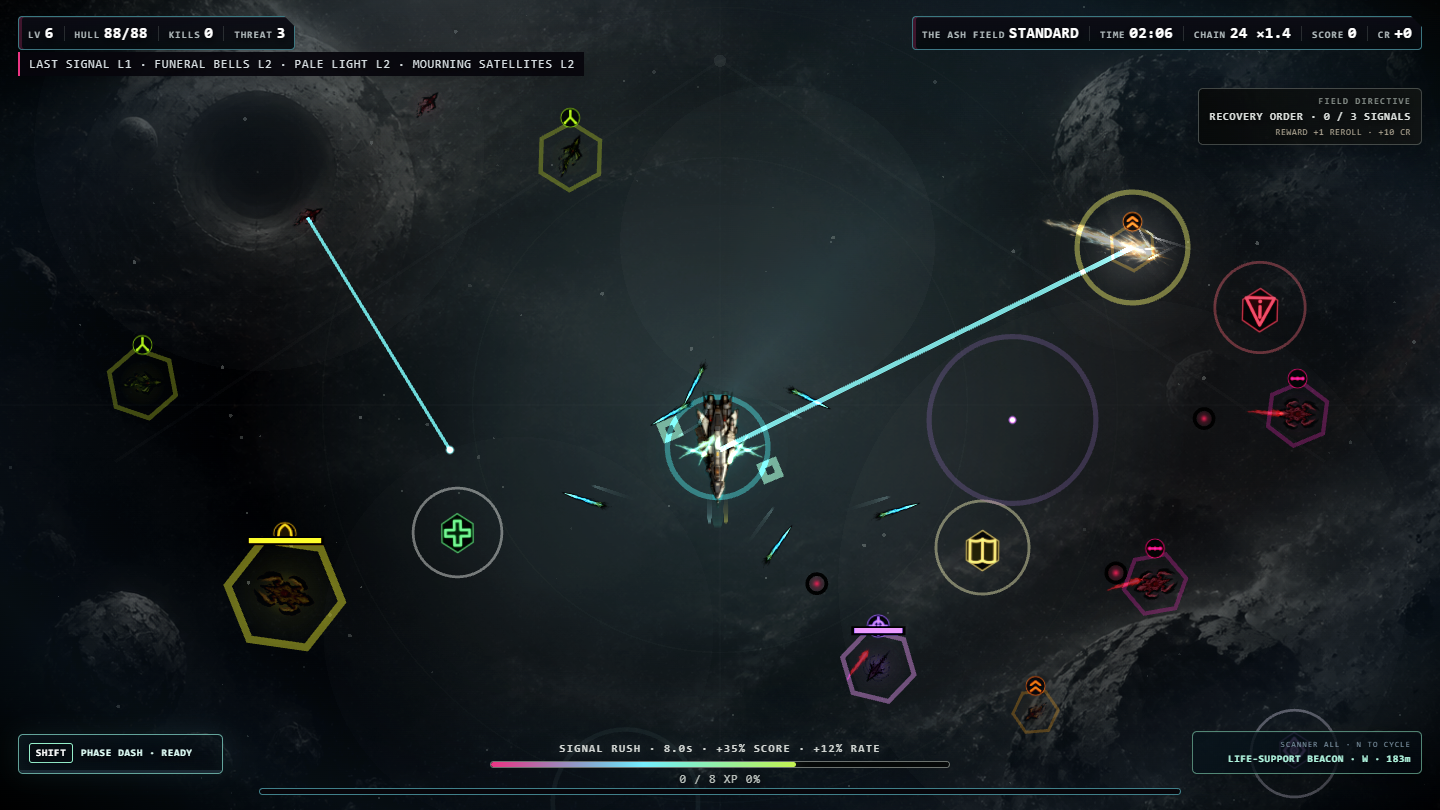
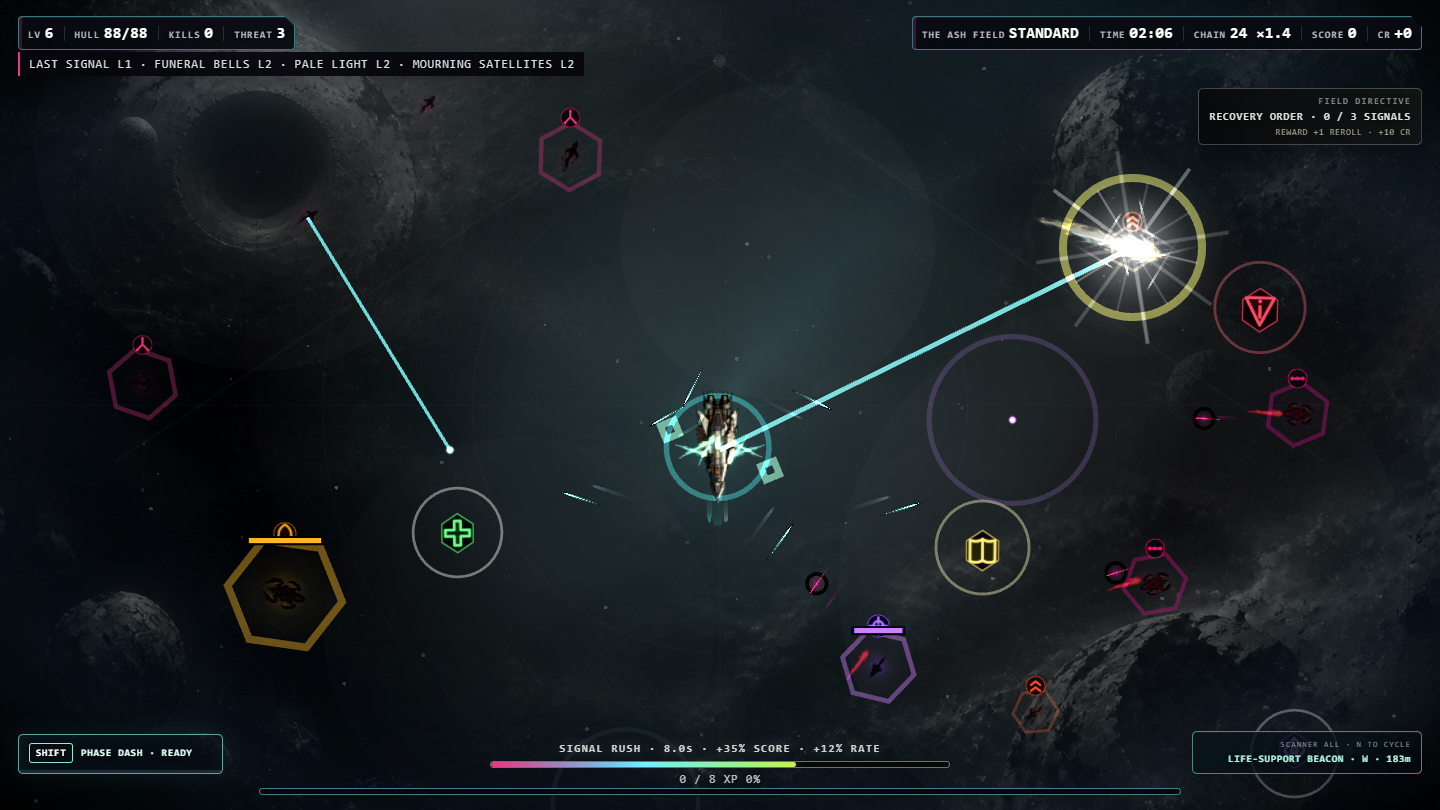
feat: align combat palette and explosive feedback

diff --git a/game.js b/game.js
@@ -751,7 +751,7 @@ function startRun(){
 }
 $('startBtn').onclick=startRun;
 function gainXp(n){state.xp+=xpGain(n)*(state.sector?.xp||1);while(state.xp>=state.xpNeed&&!state.choosing){state.xp-=state.xpNeed;state.level++;state.xpNeed=Math.floor(state.xpNeed*1.16+4);save.stats.highestLevel=Math.max(save.stats.highestLevel,state.level);if((state.level===10||state.level===20)&&state.doctrinePicks<2)openDoctrine(true);else openLevel();break}}
-function enemyBase(type){return {scout:{hp:24,speed:52,r:9,damage:13,xp:1,color:'#a99f9c'},charger:{hp:42,speed:89,r:8,damage:17,xp:2,color:'#b7aaa1'},tank:{hp:118,speed:31,r:15,damage:26,xp:3,color:'#8f8982'},gunner:{hp:58,speed:39,r:11,damage:14,xp:3,color:'#9f939d'},splitter:{hp:66,speed:46,r:12,damage:18,xp:3,color:'#aaa1a6'},sniper:{hp:48,speed:30,r:10,damage:12,xp:4,color:'#a2aaad'}}[type]}
+function enemyBase(type){return {scout:{hp:24,speed:52,r:9,damage:13,xp:1,color:'#ff4d86'},charger:{hp:42,speed:89,r:8,damage:17,xp:2,color:'#ff684c'},tank:{hp:118,speed:31,r:15,damage:26,xp:3,color:'#d79d49'},gunner:{hp:58,speed:39,r:11,damage:14,xp:3,color:'#ff2d82'},splitter:{hp:66,speed:46,r:12,damage:18,xp:3,color:'#d64b79'},sniper:{hp:48,speed:30,r:10,damage:12,xp:4,color:'#a879ff'}}[type]}
 function selectEnemyType(time,roll){if(time>210&&roll<.12)return'sniper';if(time>150&&roll<.26)return'splitter';if(time>100&&roll<.43)return'gunner';if(time>55&&roll<.65)return'charger';const tankCeiling=time>55?.79:.14;if(time>25&&roll<tankCeiling)return'tank';return'scout'}
 function spawnEnemy(forceType=null,elite=false,at=null){
   const pos=at||edgePos(),t=state.time,type=forceType||selectEnemyType(t,Math.random());
@@ -772,21 +772,21 @@ function spawnWave(dt){state.spawnT-=dt;const base=Math.max(.105,.62-state.time*
 // ---------- COMBAT ----------
 const WEAPON_FX_SIZE={pulse:24,missile:30,drone:18,rail:40,flak:25,ally:17,'hunter-wing':21,beam:38,arc:31,nova:48,mine:20,rift:34,hostile:25};
 function emitWeaponFx(x,y,angle,weaponId='pulse',color='#d7c58c',kind='friendly'){if(!state)return;const maxLife=weaponId==='rail'?.16:weaponId==='beam'?.15:kind==='hostile'?.13:.11;state.weaponFx.push({x,y,angle,weaponId,color,kind,size:WEAPON_FX_SIZE[weaponId]||24,life:maxLife,maxLife});if(state.weaponFx.length>120)state.weaponFx.splice(0,state.weaponFx.length-120);if(kind==='friendly'&&dist2({x,y},state.p)<32*32){state.p.weaponKick=Math.max(state.p.weaponKick,weaponId==='rail'?.12:weaponId==='beam'?.10:.07);state.p.weaponAngle=angle}}
-function emitImpactFx(x,y,vx,vy,weaponId='pulse',color='#d7c58c',finalHit=false,blast=0){if(!state)return;const angle=Math.atan2(vy??0,vx??1),heavy=weaponId==='rail'||weaponId==='missile'||weaponId==='flak',maxLife=finalHit?.34:heavy?.22:.16,size=(WEAPON_FX_SIZE[weaponId]||22)*(finalHit?1.45:heavy?1.12:.88);state.impactFx.push({x,y,angle,weaponId,color,finalHit,blast,life:maxLife,maxLife,size,seed:Math.random()});if(state.impactFx.length>180)state.impactFx.splice(0,state.impactFx.length-180)}
+function emitImpactFx(x,y,vx,vy,weaponId='pulse',color='#35efff',finalHit=false,blast=0){if(!state)return;const angle=Math.atan2(vy??0,vx??1),explosive=blast>0||['missile','flak','nova','mine'].includes(weaponId),heavy=explosive||weaponId==='rail',maxLife=finalHit?.38:explosive?.32:heavy?.24:.18,size=(WEAPON_FX_SIZE[weaponId]||22)*(finalHit?1.55:explosive?1.32:heavy?1.16:.92);state.impactFx.push({x,y,angle,weaponId,color,finalHit,blast,life:maxLife,maxLife,size,seed:Math.random()});if(state.impactFx.length>220)state.impactFx.splice(0,state.impactFx.length-220)}
 function fireProjectile(x,y,target,speed,damage,opts={}){if(!target||state.bullets.length>=MAX_FRIENDLY_BULLETS)return;const a=Math.atan2(target.y-y,target.x-x)+(opts.spread||0),weaponId=opts.weaponId||'unknown',color=opts.color||'#a9f4ff',life=opts.life||2;state.bullets.push({x,y,vx:Math.cos(a)*speed,vy:Math.sin(a)*speed,r:opts.r||3,life,maxLife:life,damage,pierce:opts.pierce||0,homing:opts.homing||0,blast:opts.blast||0,color,weaponId});emitWeaponFx(x+Math.cos(a)*10,y+Math.sin(a)*10,a,weaponId,color,weaponId==='ally'?'ally':'friendly')}
-function weaponPulse(w,dt){w.timer-=dt;if(w.timer>0)return;const target=nearest(state.p);if(!target)return;const l=w.level,e=w.evolved,shots=(l>=3?2:1)+(l>=6?1:0)+(e?2:0)+(state.synergies.pulseLoop?1:0)+state.p.extraProjectiles,cd=.43*(l>=4?.86:1)*(e?.70:1)*state.p.cooldownMul,damage=16*(1+(l-1)*.18)*(e?1.38:1)*state.p.damageMul*weaponPower('pulse',w),pierce=(l>=5?1:0)+(e?2:0);w.timer=cd;AUDIO.sfx('pulse');for(let i=0;i<shots;i++)fireProjectile(state.p.x,state.p.y,target,455*state.p.projectileMul,critDamage(damage),{spread:(i-(shots-1)/2)*.105,pierce,color:'#8de9ff',weaponId:'pulse'})}
-function weaponMissile(w,dt){w.timer-=dt;if(w.timer>0)return;const target=nearest(state.p);if(!target)return;const l=w.level,e=w.evolved,n=(l>=3?2:1)+(l>=6?1:0)+(e?2:0)+state.p.extraProjectiles,damage=30*(1+(l-1)*.21)*(e?1.34:1)*state.p.damageMul*weaponPower('missile',w);w.timer=.96*(l>=4?.84:1)*(e?.70:1)*state.p.cooldownMul;AUDIO.sfx('missile');for(let i=0;i<n;i++)fireProjectile(state.p.x,state.p.y,target,265*state.p.projectileMul,critDamage(damage),{spread:(i-(n-1)/2)*.17,homing:e?5.3:3.2,blast:(l>=5?26:10)*state.p.areaMul,r:4,color:'#ffd27a',weaponId:'missile'})}
+function weaponPulse(w,dt){w.timer-=dt;if(w.timer>0)return;const target=nearest(state.p);if(!target)return;const l=w.level,e=w.evolved,shots=(l>=3?2:1)+(l>=6?1:0)+(e?2:0)+(state.synergies.pulseLoop?1:0)+state.p.extraProjectiles,cd=.43*(l>=4?.86:1)*(e?.70:1)*state.p.cooldownMul,damage=16*(1+(l-1)*.18)*(e?1.38:1)*state.p.damageMul*weaponPower('pulse',w),pierce=(l>=5?1:0)+(e?2:0);w.timer=cd;AUDIO.sfx('pulse');for(let i=0;i<shots;i++)fireProjectile(state.p.x,state.p.y,target,455*state.p.projectileMul,critDamage(damage),{spread:(i-(shots-1)/2)*.105,pierce,color:'#35efff',weaponId:'pulse'})}
+function weaponMissile(w,dt){w.timer-=dt;if(w.timer>0)return;const target=nearest(state.p);if(!target)return;const l=w.level,e=w.evolved,n=(l>=3?2:1)+(l>=6?1:0)+(e?2:0)+state.p.extraProjectiles,damage=30*(1+(l-1)*.21)*(e?1.34:1)*state.p.damageMul*weaponPower('missile',w);w.timer=.96*(l>=4?.84:1)*(e?.70:1)*state.p.cooldownMul;AUDIO.sfx('missile');for(let i=0;i<n;i++)fireProjectile(state.p.x,state.p.y,target,265*state.p.projectileMul,critDamage(damage),{spread:(i-(n-1)/2)*.17,homing:e?5.3:3.2,blast:(l>=5?26:10)*state.p.areaMul,r:4,color:'#ffb347',weaponId:'missile'})}
 function dronePositions(w){const n=1+(w.level>=2?1:0)+(w.level>=5?1:0)+(w.evolved?2:0)+(state.p.droneBonus||0),arr=[];for(let i=0;i<n;i++){const a=state.time*(w.evolved?1.75:1.15)+(i/n)*Math.PI*2;arr.push({x:state.p.x+Math.cos(a)*36,y:state.p.y+Math.sin(a)*36})}return arr}
 function weaponDrone(w,dt){w.timer-=dt;w.aux=(w.aux||0)-dt;if(w.timer>0)return;const target=nearest(state.p);if(!target)return;w.timer=.73*(w.level>=4?.84:1)*(w.evolved?.68:1)*state.p.cooldownMul;const dmg=10*(1+(w.level-1)*.18)*(w.evolved?1.48:1)*state.p.damageMul*weaponPower('drone',w);AUDIO.sfx('drone');for(const d of dronePositions(w)){fireProjectile(d.x,d.y,target,395*state.p.projectileMul,critDamage(dmg),{color:'#8dffd6',weaponId:'drone'});if(state.synergies.hunterWing&&w.aux<=0)fireProjectile(d.x,d.y,target,285*state.p.projectileMul,dmg*.85,{homing:4.6,blast:14*state.p.areaMul,r:3,color:'#ffd27a',weaponId:'hunter-wing'})}if(state.synergies.hunterWing&&w.aux<=0){w.aux=1.45;AUDIO.sfx('missile')}}
-function weaponArc(w,dt){w.timer-=dt;if(w.timer>0)return;const first=nearest(state.p);if(!first)return;const l=w.level,e=w.evolved;w.timer=1.06*(l>=4?.84:1)*(e?.68:1)*state.p.cooldownMul;const chains=1+(l>=2?1:0)+(l>=5?1:0)+(e?3:0),range=135*(l>=6?1.25:1)*state.p.areaMul,dmg=22*(1+(l-1)*.17)*(e?1.42:1)*state.p.damageMul*weaponPower('arc',w);AUDIO.sfx('arc');emitWeaponFx(state.p.x,state.p.y,Math.atan2(first.y-state.p.y,first.x-state.p.x),'arc','#9cf7ff');let from={x:state.p.x,y:state.p.y},used=new Set();for(let i=0;i<chains;i++){let target=null,bd=range*range;for(const x of state.enemies){if(x.dead||used.has(x))continue;const d=dist2(from,x);if(d<bd){bd=d;target=x}}if(!target)break;used.add(target);damageEnemy(target,critDamage(dmg),false,'arc');state.arcs.push({x1:from.x,y1:from.y,x2:target.x,y2:target.y,life:.1,color:'#9cf7ff'});from=target}}
+function weaponArc(w,dt){w.timer-=dt;if(w.timer>0)return;const first=nearest(state.p);if(!first)return;const l=w.level,e=w.evolved;w.timer=1.06*(l>=4?.84:1)*(e?.68:1)*state.p.cooldownMul;const chains=1+(l>=2?1:0)+(l>=5?1:0)+(e?3:0),range=135*(l>=6?1.25:1)*state.p.areaMul,dmg=22*(1+(l-1)*.17)*(e?1.42:1)*state.p.damageMul*weaponPower('arc',w);AUDIO.sfx('arc');emitWeaponFx(state.p.x,state.p.y,Math.atan2(first.y-state.p.y,first.x-state.p.x),'arc','#35efff');let from={x:state.p.x,y:state.p.y},used=new Set();for(let i=0;i<chains;i++){let target=null,bd=range*range;for(const x of state.enemies){if(x.dead||used.has(x))continue;const d=dist2(from,x);if(d<bd){bd=d;target=x}}if(!target)break;used.add(target);const dx=target.x-from.x,dy=target.y-from.y;damageEnemy(target,critDamage(dmg),false,'arc');emitImpactFx(target.x,target.y,dx,dy,'arc','#35efff',target.dead);state.arcs.push({x1:from.x,y1:from.y,x2:target.x,y2:target.y,life:.1,color:'#35efff'});from=target}}
 function weaponRail(w,dt){w.timer-=dt;if(w.timer>0)return;const target=nearest(state.p);if(!target)return;const l=w.level,e=w.evolved,n=(l>=5?2:1)+(e?1:0)+state.p.extraProjectiles,dmg=57*(1+(l-1)*.23)*(e?1.48:1)*state.p.damageMul*weaponPower('rail',w);w.timer=1.36*(l>=4?.84:1)*(e?.72:1)*state.p.cooldownMul;AUDIO.sfx('rail');for(let i=0;i<n;i++)fireProjectile(state.p.x,state.p.y,target,625*state.p.projectileMul,critDamage(dmg),{spread:(i-(n-1)/2)*.075,pierce:2+(l>=2?1:0)+(l>=6?2:0)+(e?3:0),r:3,color:'#fff',weaponId:'rail'})}
-function weaponNova(w,dt){w.timer-=dt;if(w.timer>0)return;const l=w.level,e=w.evolved,radius=(90*(1+(l>=2?.18:0))*(l>=5?1.22:1)*(e?1.35:1))*state.p.areaMul,damage=26*(1+(l-1)*.21)*(e?1.55:1)*state.p.damageMul*weaponPower('nova',w);w.timer=1.65*(l>=4?.84:1)*(e?.72:1)*state.p.cooldownMul/(state.p.specialMul||1);AUDIO.sfx('nova');const pulses=l>=5?2:1;for(let p=0;p<pulses;p++){setTimeout(()=>{if(!state||state.gameOver)return;for(const x of state.enemies)if(!x.dead&&dist2(state.p,x)<radius*radius)damageEnemy(x,critDamage(damage),false,'nova');state.arcs.push({circle:true,x1:state.p.x,y1:state.p.y,r:radius,life:.16,color:e?'#fff':'#bd9cff'});addShake(2)},p*110)}}
+function weaponNova(w,dt){w.timer-=dt;if(w.timer>0)return;const l=w.level,e=w.evolved,radius=(90*(1+(l>=2?.18:0))*(l>=5?1.22:1)*(e?1.35:1))*state.p.areaMul,damage=26*(1+(l-1)*.21)*(e?1.55:1)*state.p.damageMul*weaponPower('nova',w);w.timer=1.65*(l>=4?.84:1)*(e?.72:1)*state.p.cooldownMul/(state.p.specialMul||1);AUDIO.sfx('nova');const pulses=l>=5?2:1;for(let p=0;p<pulses;p++){setTimeout(()=>{if(!state||state.gameOver)return;for(const x of state.enemies)if(!x.dead&&dist2(state.p,x)<radius*radius)damageEnemy(x,critDamage(damage),false,'nova');const color=e?'#ffffff':'#a879ff';emitImpactFx(state.p.x,state.p.y,1,0,'nova',color,false,radius);state.arcs.push({circle:true,x1:state.p.x,y1:state.p.y,r:radius,life:.18,color});addShake(2)},p*110)}}
 function weaponMine(w,dt){w.timer-=dt;if(w.timer>0)return;const l=w.level,e=w.evolved,max=2+(l>=2?1:0)+(l>=6?1:0)+(e?2:0);w.timer=1.4*(l>=4?.84:1)*(e?.72:1)*state.p.cooldownMul;AUDIO.sfx('mine');state.mines.push({x:state.p.x,y:state.p.y,r:6,life:10,damage:34*(1+(l-1)*.22)*(e?1.48:1)*state.p.damageMul*weaponPower('mine',w),blast:70*(l>=5?1.22:1)*(e?1.38:1)*state.p.areaMul,weaponId:'mine'});while(state.mines.length>max)state.mines.shift()}
-function weaponBeam(w,dt){w.timer-=dt;if(w.timer>0)return;const target=nearest(state.p);if(!target)return;const l=w.level,e=w.evolved,n=(l>=5?2:1)+(e?1:0)+state.p.extraProjectiles,range=500,dmg=38*(1+(l-1)*.20)*(e?1.42:1)*state.p.damageMul*weaponPower('beam',w);w.timer=.92*(l>=4?.84:1)*(e?.70:1)*state.p.cooldownMul/(state.p.specialMul||1);AUDIO.sfx('beam');const base=Math.atan2(target.y-state.p.y,target.x-state.p.x);for(let q=0;q<n;q++){const a=base+(q-(n-1)/2)*.11,ex=state.p.x+Math.cos(a)*range,ey=state.p.y+Math.sin(a)*range;emitWeaponFx(state.p.x+Math.cos(a)*11,state.p.y+Math.sin(a)*11,a,'beam',e?'#ffffff':'#78caff');state.beams.push({x1:state.p.x,y1:state.p.y,x2:ex,y2:ey,life:.1,color:e?'#fff':'#78caff',weaponId:'beam'});const hits=[];for(const x of state.enemies){if(x.dead)continue;const vx=x.x-state.p.x,vy=x.y-state.p.y,along=vx*Math.cos(a)+vy*Math.sin(a),perp=Math.abs(-vx*Math.sin(a)+vy*Math.cos(a));if(along>0&&along<range&&perp<x.r+6)hits.push({e:x,d:along})}hits.sort((A,B)=>A.d-B.d);const cap=2+(l>=2?1:0)+(e?3:0);for(const h of hits.slice(0,cap)){damageEnemy(h.e,critDamage(dmg),false,'beam');if(state.synergies.prismNet){const t=nearest(h.e,x=>x!==h.e&&dist2(h.e,x)<120*120);if(t){state.arcs.push({x1:h.e.x,y1:h.e.y,x2:t.x,y2:t.y,life:.09,color:'#9cf7ff'});damageEnemy(t,dmg*.32,false,'prism-net',false)}}}}}
-function weaponFlak(w,dt){w.timer-=dt;if(w.timer>0)return;const target=nearest(state.p);if(!target)return;const l=w.level,e=w.evolved,n=5+(l>=2?2:0)+(l>=6?2:0)+(e?4:0)+state.p.extraProjectiles,damage=12*(1+(l-1)*.18)*(e?1.42:1)*state.p.damageMul*weaponPower('flak',w),range=(l>=5?.95:.78)*(e?1.18:1);w.timer=.74*(l>=4?.86:1)*(e?.70:1)*state.p.cooldownMul;AUDIO.sfx('flak');for(let i=0;i<n;i++)fireProjectile(state.p.x,state.p.y,target,520*state.p.projectileMul,critDamage(damage),{spread:(i-(n-1)/2)*.095,pierce:e?1:0,life:range,color:e?'#ffffff':'#ffd27a',weaponId:'flak'})}
+function weaponBeam(w,dt){w.timer-=dt;if(w.timer>0)return;const target=nearest(state.p);if(!target)return;const l=w.level,e=w.evolved,n=(l>=5?2:1)+(e?1:0)+state.p.extraProjectiles,range=500,dmg=38*(1+(l-1)*.20)*(e?1.42:1)*state.p.damageMul*weaponPower('beam',w);w.timer=.92*(l>=4?.84:1)*(e?.70:1)*state.p.cooldownMul/(state.p.specialMul||1);AUDIO.sfx('beam');const base=Math.atan2(target.y-state.p.y,target.x-state.p.x),color=e?'#ffffff':'#35efff';for(let q=0;q<n;q++){const a=base+(q-(n-1)/2)*.11,ex=state.p.x+Math.cos(a)*range,ey=state.p.y+Math.sin(a)*range;emitWeaponFx(state.p.x+Math.cos(a)*11,state.p.y+Math.sin(a)*11,a,'beam',color);state.beams.push({x1:state.p.x,y1:state.p.y,x2:ex,y2:ey,life:.1,color,weaponId:'beam'});const hits=[];for(const x of state.enemies){if(x.dead)continue;const vx=x.x-state.p.x,vy=x.y-state.p.y,along=vx*Math.cos(a)+vy*Math.sin(a),perp=Math.abs(-vx*Math.sin(a)+vy*Math.cos(a));if(along>0&&along<range&&perp<x.r+6)hits.push({e:x,d:along})}hits.sort((A,B)=>A.d-B.d);const cap=2+(l>=2?1:0)+(e?3:0);for(const h of hits.slice(0,cap)){damageEnemy(h.e,critDamage(dmg),false,'beam');emitImpactFx(h.e.x,h.e.y,Math.cos(a),Math.sin(a),'beam',color,h.e.dead);if(state.synergies.prismNet){const t=nearest(h.e,x=>x!==h.e&&dist2(h.e,x)<120*120);if(t){state.arcs.push({x1:h.e.x,y1:h.e.y,x2:t.x,y2:t.y,life:.09,color:'#35efff'});damageEnemy(t,dmg*.32,false,'prism-net',false)}}}}}
+function weaponFlak(w,dt){w.timer-=dt;if(w.timer>0)return;const target=nearest(state.p);if(!target)return;const l=w.level,e=w.evolved,n=5+(l>=2?2:0)+(l>=6?2:0)+(e?4:0)+state.p.extraProjectiles,damage=12*(1+(l-1)*.18)*(e?1.42:1)*state.p.damageMul*weaponPower('flak',w),range=(l>=5?.95:.78)*(e?1.18:1);w.timer=.74*(l>=4?.86:1)*(e?.70:1)*state.p.cooldownMul;AUDIO.sfx('flak');for(let i=0;i<n;i++)fireProjectile(state.p.x,state.p.y,target,520*state.p.projectileMul,critDamage(damage),{spread:(i-(n-1)/2)*.095,pierce:e?1:0,life:range,color:e?'#ffffff':'#ffb347',weaponId:'flak'})}
 function bladePositions(w){const n=2+(w.level>=2?1:0)+(w.level>=6?1:0)+(w.evolved?2:0)+(state.synergies.razorWing?1:0),r=(43*(w.level>=5?1.18:1)*(w.evolved?1.18:1))*state.p.areaMul,out=[];for(let i=0;i<n;i++){const a=state.time*(w.evolved?3.0:2.15)+(i/n)*Math.PI*2;out.push({x:state.p.x+Math.cos(a)*r,y:state.p.y+Math.sin(a)*r})}return out}
 function weaponBlade(w,dt){w.timer-=dt;if(w.timer>0)return;w.timer=.16*(w.level>=4?.86:1)*(w.evolved?.72:1)*state.p.cooldownMul;const damage=13*(1+(w.level-1)*.19)*(w.evolved?1.45:1)*state.p.damageMul*weaponPower('blade',w)*(state.p.frame==='halo'&&state.p.moving?1.28:1);for(const b of bladePositions(w))for(const e of state.enemies)if(!e.dead&&dist2(b,e)<(e.r+7)*(e.r+7))damageEnemy(e,damage,false,'blade')}
-function weaponRift(w,dt){w.timer-=dt;if(w.timer>0)return;const target=nearest(state.p);if(!target)return;const l=w.level,e=w.evolved;w.timer=2.25*(l>=4?.86:1)*(e?.72:1)*state.p.cooldownMul/(state.p.specialMul||1);const radius=68*(l>=2?1.18:1)*(e?1.35:1)*state.p.areaMul*(state.p.frame==='event'?1.22:1),duration=2.7*(l>=5?1.25:1)*(e?1.35:1),damage=14*(1+(l-1)*.18)*(e?1.45:1)*state.p.damageMul*weaponPower('rift',w);state.rifts.push({x:target.x,y:target.y,r:radius,life:duration,maxLife:duration,tick:0,damage,pull:(36+l*5)*(e?1.35:1)*(state.p.frame==='event'?1.25:1)});AUDIO.sfx('rift',0,target);state.arcs.push({circle:true,x1:target.x,y1:target.y,r:radius,life:.16,color:e?'#ffffff':'#7c63b8'})}
+function weaponRift(w,dt){w.timer-=dt;if(w.timer>0)return;const target=nearest(state.p);if(!target)return;const l=w.level,e=w.evolved;w.timer=2.25*(l>=4?.86:1)*(e?.72:1)*state.p.cooldownMul/(state.p.specialMul||1);const radius=68*(l>=2?1.18:1)*(e?1.35:1)*state.p.areaMul*(state.p.frame==='event'?1.22:1),duration=2.7*(l>=5?1.25:1)*(e?1.35:1),damage=14*(1+(l-1)*.18)*(e?1.45:1)*state.p.damageMul*weaponPower('rift',w),color=e?'#ffffff':'#a879ff';state.rifts.push({x:target.x,y:target.y,r:radius,life:duration,maxLife:duration,tick:0,damage,pull:(36+l*5)*(e?1.35:1)*(state.p.frame==='event'?1.25:1)});AUDIO.sfx('rift',0,target);emitImpactFx(target.x,target.y,1,0,'rift',color,false,radius*.55);state.arcs.push({circle:true,x1:target.x,y1:target.y,r:radius,life:.16,color})}
 function updateWeapons(dt){const tier=state.driveTier||0,drive=[1,1.18,1.35,1.55,1.80][tier]||1,surge=state.time<state.surgeUntil?1.25:1,rush=state.rush>0?1.12:1,reckon=state.p.deadReckoning&&state.p.hp/state.p.maxHp<=.25?1.35:1;const brink=state.p.brink&&state.p.hp/state.p.maxHp<=.50?1.28:1;const map={pulse:weaponPulse,missile:weaponMissile,drone:weaponDrone,arc:weaponArc,rail:weaponRail,nova:weaponNova,mine:weaponMine,beam:weaponBeam,flak:weaponFlak,blade:weaponBlade,rift:weaponRift};for(const [id,w] of Object.entries(state.weapons))map[id]?.(w,dt*drive*surge*rush*reckon*brink)}
 
 function convertEnemy(e){if(e.dead)return;AUDIO.sfx('convert');if(state.bounty?.enemy===e)state.bounty=null;e.dead=true;state.conversions++;save.stats.conversions++;const iff=state.passives.iff||0,life=(14+iff*3)*state.p.allyLifeMul,baseFire=e.type==='sniper'?1.05:e.type==='tank'?.95:e.type==='charger'?.48:e.type==='splitter'?.58:.68;state.allies.push({x:e.x,y:e.y,type:e.type,elite:e.elite,r:Math.max(7,e.r*.7),life,fireT:.12+Math.random()*.25,baseFire,damageMul:e.elite?1.8:1,expired:false});particle(e.x,e.y,'#8dffd6',e.elite?20:12);state.arcs.push({circle:true,x1:e.x,y1:e.y,r:e.elite?34:22,life:.14,color:'#8dffd6'});message(`IFF OVERRIDE\n${e.elite?'ELITE ':''}${ENEMY_META[e.type]?.name||'ALLY'} ACQUIRED`,620);state.score+=30*state.diff.score*(state.contract?.score||1);unlockAchievement('iff_friend')}
@@ -848,16 +848,16 @@ function update(dt){
       emitImpactFx(e.x,e.y,b.vx,b.vy,b.weaponId,b.color,e.dead,b.blast);
       if(b.blast>0){
         for(const x of state.enemies)if(!x.dead&&x!==e&&dist2(e,x)<b.blast*b.blast)damageEnemy(x,b.damage*.42,false,b.weaponId);
-        if(b.weaponId==='missile'&&state.synergies.fragmentation){for(let i=0;i<5;i++){const aa=i/5*Math.PI*2;state.bullets.push({x:e.x,y:e.y,vx:Math.cos(aa)*360,vy:Math.sin(aa)*360,r:2,life:.38,maxLife:.38,damage:b.damage*.18,pierce:0,homing:0,blast:0,color:'#ffd27a',weaponId:'fragmentation'})}}
+        if(b.weaponId==='missile'&&state.synergies.fragmentation){for(let i=0;i<5;i++){const aa=i/5*Math.PI*2;state.bullets.push({x:e.x,y:e.y,vx:Math.cos(aa)*360,vy:Math.sin(aa)*360,r:2,life:.38,maxLife:.38,damage:b.damage*.18,pierce:0,homing:0,blast:0,color:'#ffcf63',weaponId:'fragmentation'})}}
       }
       if(b.pierce>0)b.pierce--;else{b.life=0;break}
     }
   }
-  for(const m of state.mines){m.life-=dt;let target=null;for(const e of state.enemies){if(!e.dead&&dist2(m,e)<45*45){target=e;break}}if(target){m.life=0;AUDIO.sfx('mine',0,m);addShake(state.synergies.gravityPulse?5:3);state.arcs.push({circle:true,x1:m.x,y1:m.y,r:m.blast,life:.12,color:'#bd9cff'});for(const e of state.enemies)if(!e.dead&&dist2(m,e)<m.blast*m.blast)damageEnemy(e,critDamage(m.damage),false,'mine');if(state.synergies.gravityPulse){const r=m.blast*1.5;state.arcs.push({circle:true,x1:m.x,y1:m.y,r,life:.18,color:'#ffffff'});for(const e of state.enemies)if(!e.dead&&dist2(m,e)<r*r)damageEnemy(e,m.damage*.34,false,'gravity-pulse',false)}}}
+  for(const m of state.mines){m.life-=dt;let target=null;for(const e of state.enemies){if(!e.dead&&dist2(m,e)<45*45){target=e;break}}if(target){m.life=0;AUDIO.sfx('mine',0,m);addShake(state.synergies.gravityPulse?5:3);emitImpactFx(m.x,m.y,1,0,'mine','#a879ff',false,m.blast);state.arcs.push({circle:true,x1:m.x,y1:m.y,r:m.blast,life:.16,color:'#a879ff'});for(const e of state.enemies)if(!e.dead&&dist2(m,e)<m.blast*m.blast)damageEnemy(e,critDamage(m.damage),false,'mine');if(state.synergies.gravityPulse){const r=m.blast*1.5;emitImpactFx(m.x,m.y,1,0,'mine','#ffffff',false,r);state.arcs.push({circle:true,x1:m.x,y1:m.y,r,life:.20,color:'#ffffff'});for(const e of state.enemies)if(!e.dead&&dist2(m,e)<r*r)damageEnemy(e,m.damage*.34,false,'gravity-pulse',false)}}}
   for(const b of state.enemyBullets){b.x+=b.vx*dt;b.y+=b.vy*dt;b.life-=dt;const d2=dist2(b,p);if(d2<(b.r+p.r)*(b.r+p.r)){b.life=0;hitPlayer(b.damage)}else if(!b.grazed&&d2<(b.r+p.r+p.grazeRadius)*(b.r+p.r+p.grazeRadius)){b.grazed=true;state.grazes++;state.grazeChain=state.grazeTimer>0?state.grazeChain+1:1;state.grazeTimer=1.15;state.grazeBest=Math.max(state.grazeBest,state.grazeChain);const gMul=1+Math.min(2,state.grazeChain*.08);state.score+=14*gMul*state.p.scoreMul*state.diff.score*(state.contract?.score||1);state.chainTimer=Math.max(state.chainTimer,.65);AUDIO.sfx('graze',0,b);if(p.frame==='specter'){state.driveTier=Math.max(state.driveTier,1);state.overdrive=Math.max(state.overdrive,.35)}const milestone=state.grazeChain===3?1:state.grazeChain===7?2:state.grazeChain===12?3:0;if(milestone){AUDIO.sfx('grazeTier',milestone,b);message(milestone===1?'CLOSE':milestone===2?'DANGER':'INSANE GRAZE',420)}if(state.p.grazeOverclock&&state.grazeChain>=5)for(const w of Object.values(state.weapons))w.timer=Math.max(0,w.timer-.10);if(state.grazes>=25)unlockAchievement('graze_25')}}
   for(const o of state.orbs){const d=Math.hypot(p.x-o.x,p.y-o.y),convergence=state.xp/state.xpNeed>=.78,sweep=state.salvageSweep>0,magnet=sweep?1800:p.magnet*(state.rush>0?1.85:1)*(convergence?1.35:1);if(d<magnet){const sp=sweep?620+d*.75:(state.rush>0?230:135)+(magnet-d)*4;o.x+=(p.x-o.x)/Math.max(1,d)*sp*dt;o.y+=(p.y-o.y)/Math.max(1,d)*sp*dt}if(d<p.r+o.r+5){o.dead=true;AUDIO.sfx('pickup',o.val,o);gainXp(o.val)}}
   for(const c of state.caches){c.life-=dt;const d=Math.hypot(p.x-c.x,p.y-c.y);if(d<p.magnet*1.3){const sp=105+(p.magnet-d)*3;c.x+=(p.x-c.x)/Math.max(1,d)*sp*dt;c.y+=(p.y-c.y)/Math.max(1,d)*sp*dt}if(d<p.r+c.r+7)openCache(c)}
-  for(const a of state.allies){a.life-=dt;if(a.life<=0&&!a.expired){a.expired=true;if(state.p.allyExplosion>0){const r=65+state.p.allyExplosion*20,damage=30*state.p.damageMul*state.p.allyExplosion;AUDIO.sfx('nova');state.arcs.push({circle:true,x1:a.x,y1:a.y,r,life:.16,color:'#8dffd6'});for(const e of state.enemies)if(!e.dead&&dist2(a,e)<r*r)damageEnemy(e,damage,false,'scuttle',false)}}const target=nearest(a);if(target){const ang=Math.atan2(target.y-a.y,target.x-a.x);a.x+=Math.cos(ang)*(a.type==='charger'?72:48)*dt;a.y+=Math.sin(ang)*(a.type==='charger'?72:48)*dt}a.fireT-=dt;if(a.fireT<=0){a.fireT=(a.baseFire||.72)/state.p.allyFireMul;allyShoot(a)}}
+  for(const a of state.allies){a.life-=dt;if(a.life<=0&&!a.expired){a.expired=true;if(state.p.allyExplosion>0){const r=65+state.p.allyExplosion*20,damage=30*state.p.damageMul*state.p.allyExplosion;AUDIO.sfx('nova');emitImpactFx(a.x,a.y,1,0,'nova','#73fbd3',false,r);state.arcs.push({circle:true,x1:a.x,y1:a.y,r,life:.18,color:'#73fbd3'});for(const e of state.enemies)if(!e.dead&&dist2(a,e)<r*r)damageEnemy(e,damage,false,'scuttle',false)}}const target=nearest(a);if(target){const ang=Math.atan2(target.y-a.y,target.x-a.x);a.x+=Math.cos(ang)*(a.type==='charger'?72:48)*dt;a.y+=Math.sin(ang)*(a.type==='charger'?72:48)*dt}a.fireT-=dt;if(a.fireT<=0){a.fireT=(a.baseFire||.72)/state.p.allyFireMul;allyShoot(a)}}
   const particleDrag=Math.pow(.96,dt*60);for(const q of state.particles){q.x+=q.vx*dt;q.y+=q.vy*dt;q.vx*=particleDrag;q.vy*=particleDrag;q.life-=dt}for(const f of state.floaters){f.y-=dt*(f.crit?27:19);f.life-=dt}for(const death of state.deathFx)death.life-=dt;for(const impact of state.impactFx)impact.life-=dt;for(const fx of state.weaponFx)fx.life-=dt;for(const a of state.arcs)a.life-=dt;for(const b of state.beams)b.life-=dt;
   const worldRange2=WORLD_DESPAWN_RADIUS*WORLD_DESPAWN_RADIUS;state.enemies=state.enemies.filter(e=>!e.dead&&(e.boss||e.nemesis||e.bounty||dist2(e,p)<worldRange2));state.bullets=state.bullets.filter(b=>b.life>0&&b.x>-60&&b.x<W+60&&b.y>-60&&b.y<H+60);state.enemyBullets=state.enemyBullets.filter(b=>b.life>0&&b.x>-60&&b.x<W+60&&b.y>-60&&b.y<H+60);if(state.bullets.length>MAX_FRIENDLY_BULLETS)state.bullets.splice(0,state.bullets.length-MAX_FRIENDLY_BULLETS);if(state.enemyBullets.length>MAX_ENEMY_BULLETS)state.enemyBullets.splice(0,state.enemyBullets.length-MAX_ENEMY_BULLETS);if(state.particles.length>MAX_PARTICLES)state.particles.splice(0,state.particles.length-MAX_PARTICLES);state.orbs=state.orbs.filter(o=>!o.dead&&withinWorldRange(o,360));state.caches=state.caches.filter(c=>!c.dead&&c.life>0&&withinWorldRange(c,420));state.mines=state.mines.filter(m=>m.life>0&&withinWorldRange(m,300));state.rifts=state.rifts.filter(r=>r.life>0&&withinWorldRange(r,420));state.allies=state.allies.filter(a=>a.life>0&&withinWorldRange(a,520));state.particles=state.particles.filter(q=>q.life>0&&withinWorldRange(q,160));state.floaters=state.floaters.filter(f=>f.life>0&&withinWorldRange(f,160));state.deathFx=state.deathFx.filter(death=>death.life>0&&withinWorldRange(death,240));state.impactFx=state.impactFx.filter(impact=>impact.life>0&&withinWorldRange(impact,180));state.weaponFx=state.weaponFx.filter(fx=>fx.life>0);state.arcs=state.arcs.filter(a=>a.life>0);state.beams=state.beams.filter(b=>b.life>0);
 }
